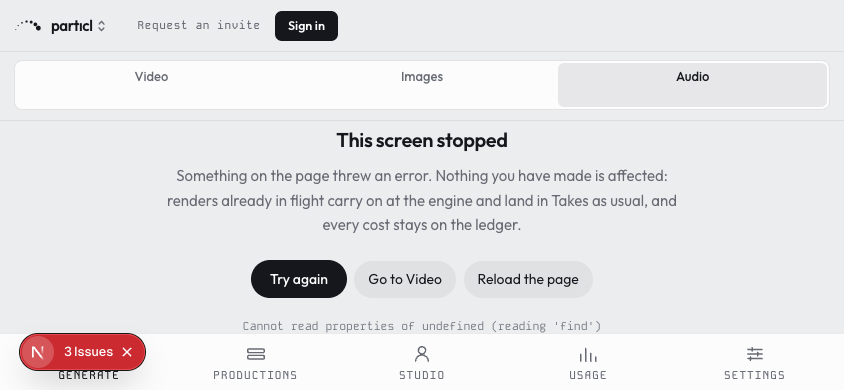
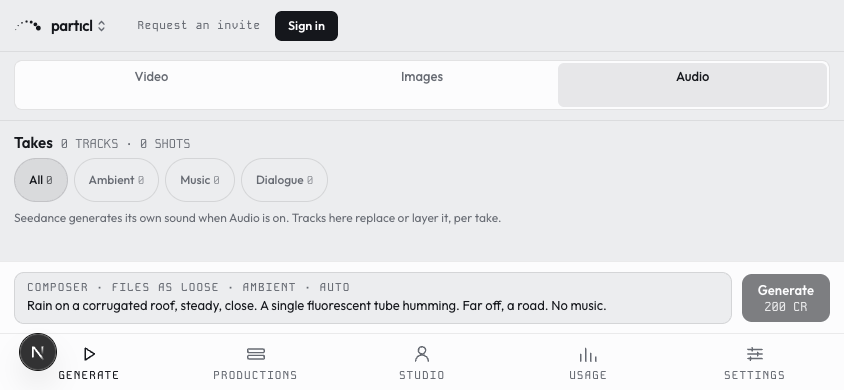
Publishing previews: copy what is missing, a slice at a time
Copying a clip means reading its bytes and writing them again, and a
request has a ceiling: publishing 36 in one call was cut off at 17, and
because the route redid every clip each time, asking again would have
stalled on the same ones. It now skips what is already published,
copies at most a slice per call, and says how many are left; force
redoes one deliberately.

diff --git a/app/api/admin/previews/route.ts b/app/api/admin/previews/route.ts
@@ -66,8 +66,16 @@ export const POST = withTenant(async function POST(req: Request) {
   if (!ws?.internalTest) return NextResponse.json({ error: "Previews are published from an internal test workspace only." }, { status: 400 });
   const body = await req.json().catch(() => ({}));
   if (body.action !== "publish") return NextResponse.json({ error: "action must be publish." }, { status: 400 });
+  /* Copying a clip means reading it and writing it again, and a request has
+     a ceiling: publish what is missing, a slice at a time, and say what is
+     left so the console can ask again. `force` redoes one that is already
+     there — for a batch rendered a second time. */
+  const already = new Set((await listPlatformAssets("previews/")).map((a) => a.key.replace(/^previews\//, "")));
+  const force = body.force === true;
+  const todo = (await candidates()).filter((c) => c.status === "succeeded" && (force || !already.has(c.key)));
+  const slice = Math.max(1, Math.min(24, Number(body.limit) || 10));
   const published: string[] = []; const failed: { key: string; error: string }[] = [];
-  for (const c of (await candidates()).filter((c) => c.status === "succeeded")) {
+  for (const c of todo.slice(0, slice)) {
     try {
       const buf = await readVideoBytes(c.genId);
       const path = await storePlatformBytes(`previews/${c.key}.mp4`, buf, "video/mp4");
@@ -75,5 +83,5 @@ export const POST = withTenant(async function POST(req: Request) {
       published.push(c.key);
     } catch (e) { failed.push({ key: c.key, error: (e as Error).message }); }
   }
-  return NextResponse.json({ published, failed });
+  return NextResponse.json({ published, failed, remaining: Math.max(0, todo.length - published.length - failed.length) });
 });

diff --git a/tests/unit/previewsPublish.spec.ts b/tests/unit/previewsPublish.spec.ts
@@ -1,0 +1,18 @@
+import { test, expect } from "@playwright/test";
+import { readFileSync } from "node:fs";
+
+/**
+ * Publishing copies each clip's bytes, and a request has a ceiling: the
+ * route must publish only what is missing, in slices, and say what is left
+ * — or a batch of 36 can never finish (every call would redo the same
+ * first ones until it is cut off again).
+ */
+test("publish skips what is already published, works in slices, and reports the remainder", () => {
+  const src = readFileSync("app/api/admin/previews/route.ts", "utf8");
+  expect(src).toContain("const already = new Set");
+  expect(src).toMatch(/force \|\| !already\.has\(c\.key\)/);
+  expect(src).toMatch(/todo\.slice\(0, slice\)/);
+  expect(src).toContain("remaining:");
+  // The slice is bounded on both sides, so one call can neither stall nor run away.
+  expect(src).toMatch(/Math\.max\(1, Math\.min\(24, Number\(body\.limit\) \|\| 10\)\)/);
+});
